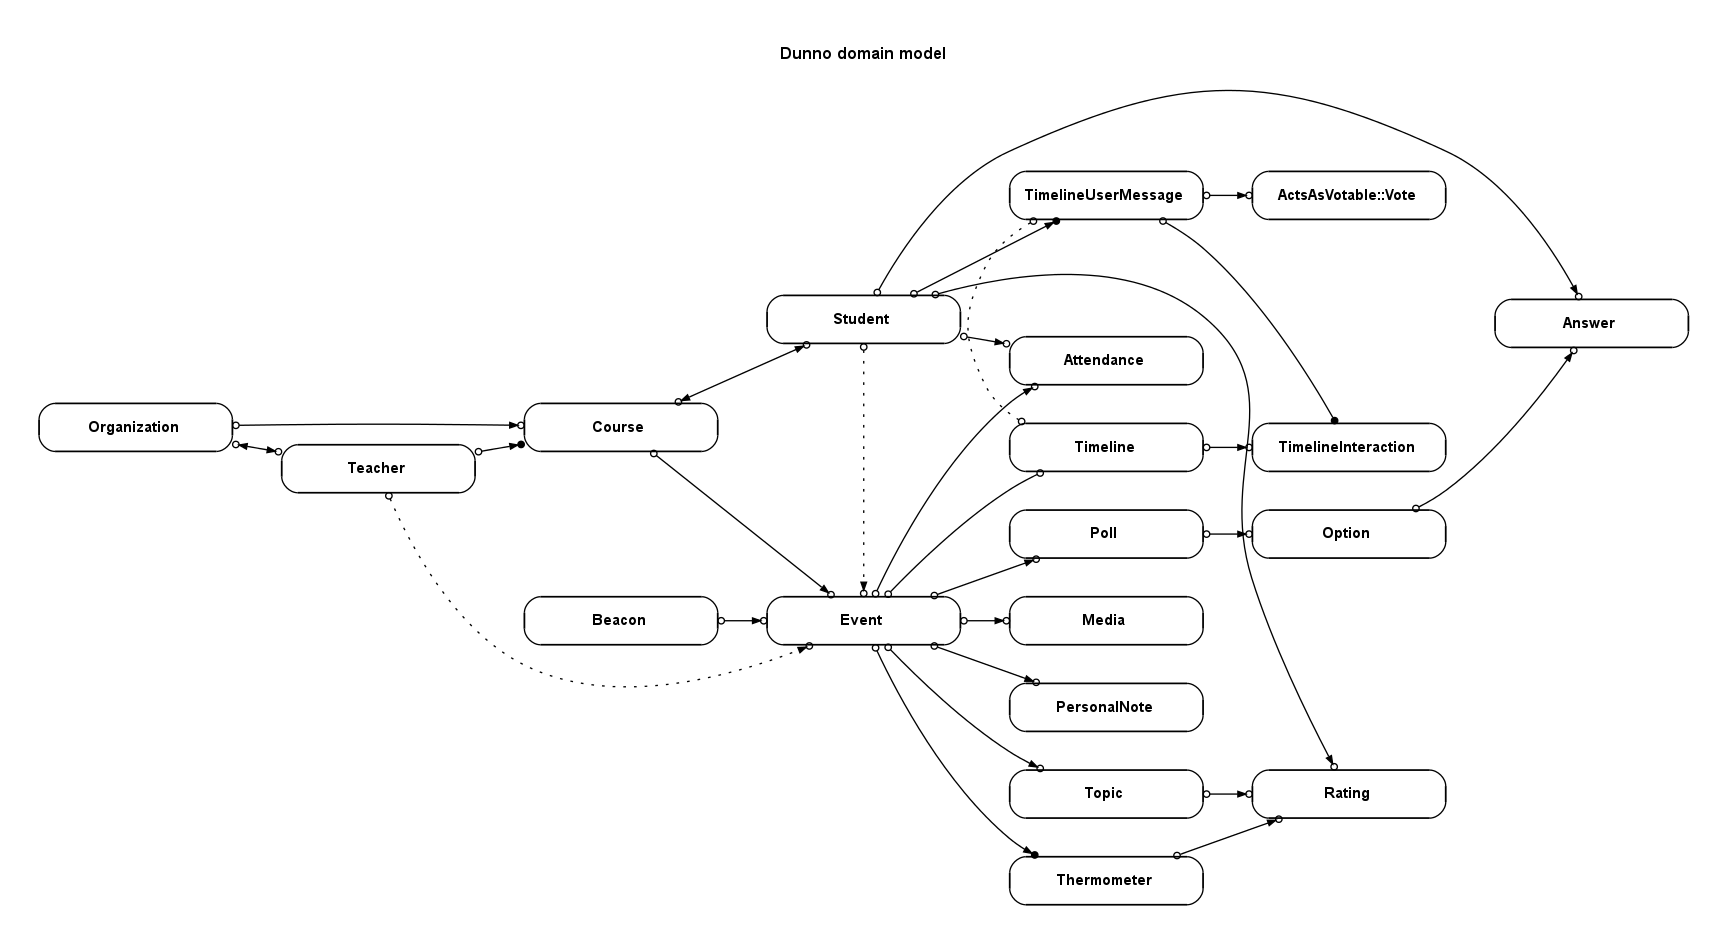
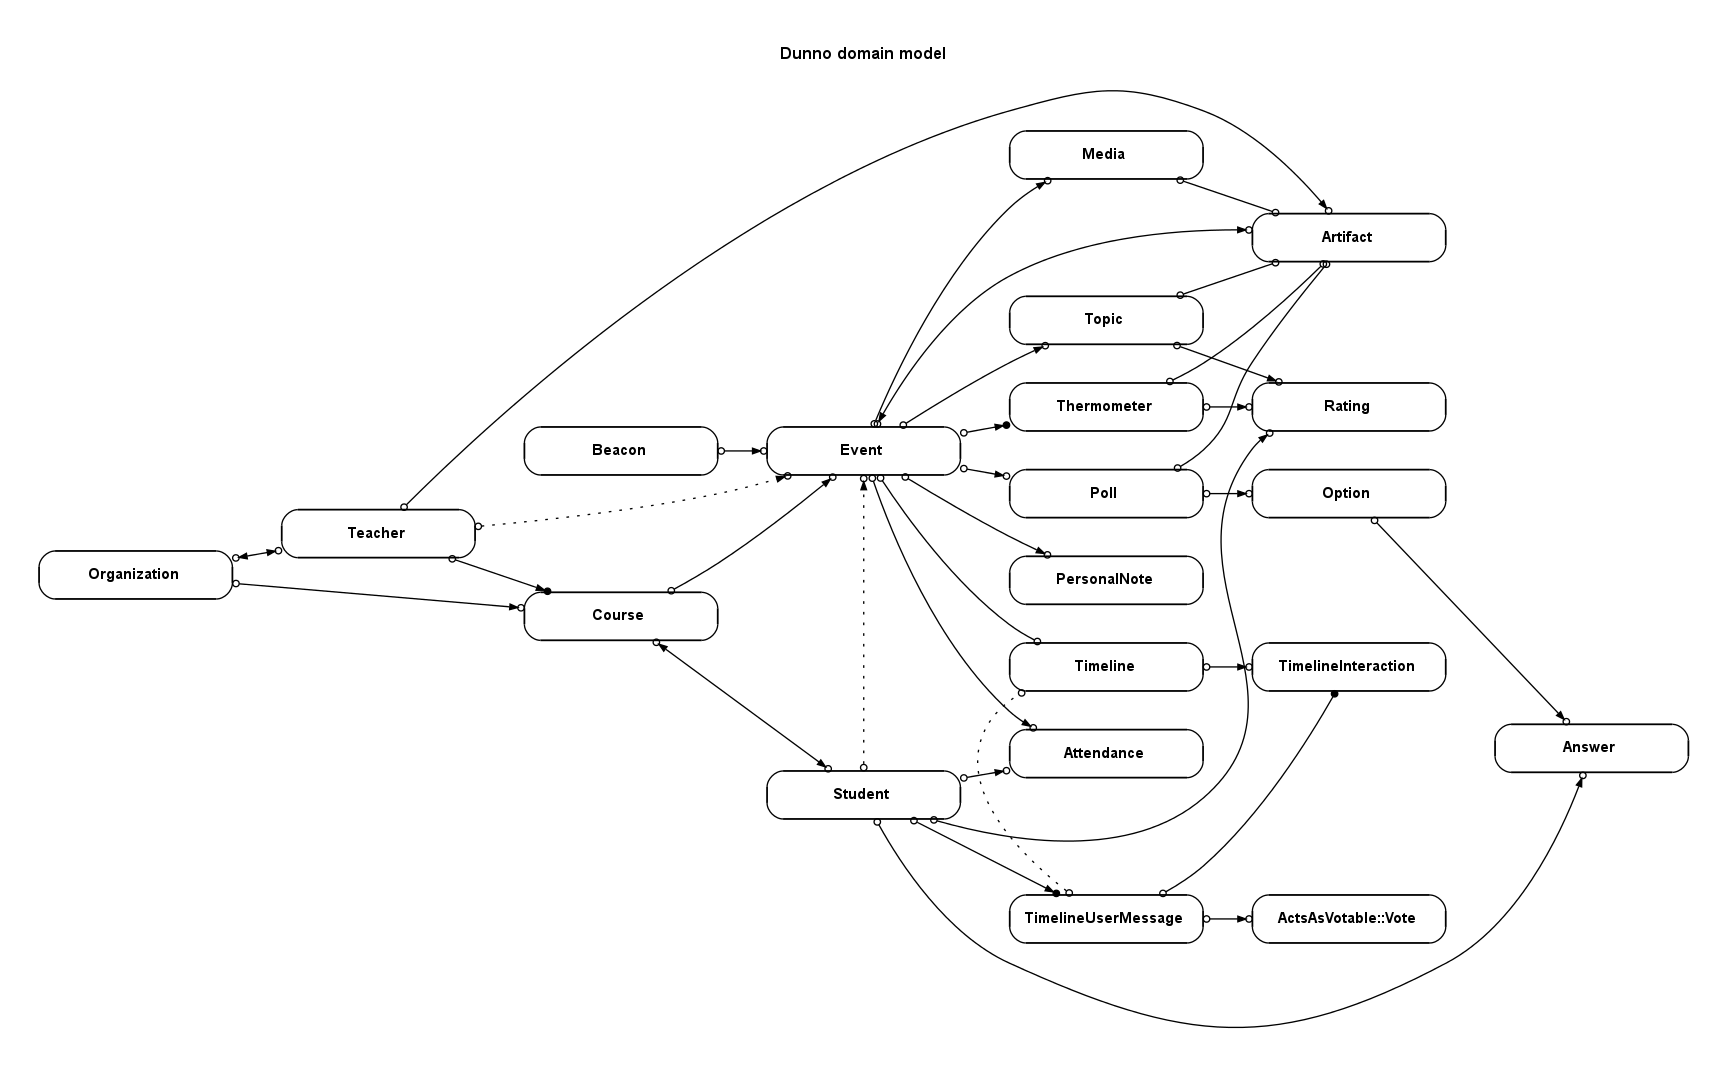
Creating artifact

diff --git a/db/schema.rb b/db/schema.rb
@@ -11,7 +11,7 @@
 #
 # It's strongly recommended that you check this file into your version control system.
 
-ActiveRecord::Schema.define(version: 20140429220313) do
+ActiveRecord::Schema.define(version: 20140507223500) do
 
   # These are extensions that must be enabled in order to support this database
   enable_extension "plpgsql"
@@ -26,6 +26,25 @@ ActiveRecord::Schema.define(version: 20140429220313) do
 
   add_index "answers", ["option_id"], name: "index_answers_on_option_id", using: :btree
   add_index "answers", ["student_id"], name: "index_answers_on_student_id", using: :btree
+
+  create_table "artifacts", force: true do |t|
+    t.integer  "teacher_id"
+    t.integer  "heir_id"
+    t.string   "heir_type"
+    t.datetime "created_at"
+    t.datetime "updated_at"
+  end
+
+  add_index "artifacts", ["heir_id", "heir_type"], name: "index_artifacts_on_heir_id_and_heir_type", unique: true, using: :btree
+  add_index "artifacts", ["teacher_id"], name: "index_artifacts_on_teacher_id", using: :btree
+
+  create_table "artifacts_events", id: false, force: true do |t|
+    t.integer "artifact_id"
+    t.integer "event_id"
+  end
+
+  add_index "artifacts_events", ["artifact_id"], name: "index_artifacts_events_on_artifact_id", using: :btree
+  add_index "artifacts_events", ["event_id"], name: "index_artifacts_events_on_event_id", using: :btree
 
   create_table "attendances", force: true do |t|
     t.integer  "student_id"

diff --git a/spec/models/artifact_spec.rb b/spec/models/artifact_spec.rb
@@ -1,0 +1,21 @@
+require 'spec_helper'
+
+describe Artifact do
+
+  shared_examples_for "artifact common examples" do
+    it { should respond_to(:teacher) }
+    it { should respond_to(:events) }
+  end
+
+  it_behaves_like "artifact common examples"
+
+  shared_examples_for "artifact" do
+    describe "associations" do
+      it { should have_one(:predecessor) }
+    end
+
+    describe "inheritance" do
+      it_behaves_like "artifact common examples"
+    end
+  end
+end

diff --git a/db/migrate/20140507210809_create_artifacts.rb b/db/migrate/20140507210809_create_artifacts.rb
@@ -1,0 +1,13 @@
+class CreateArtifacts < ActiveRecord::Migration
+  def change
+    create_table :artifacts do |t|
+      t.belongs_to :teacher, index: true
+      t.integer    :heir_id
+      t.string     :heir_type
+
+      t.timestamps
+    end
+
+    add_index :artifacts, [:heir_id, :heir_type], unique: true
+  end
+end

diff --git a/app/models/event.rb b/app/models/event.rb
@@ -10,6 +10,7 @@ class Event < ActiveRecord::Base
   has_many :personal_notes
   has_many :medias
   belongs_to :beacon
+  has_and_belongs_to_many :artifacts
 
   validates :title, :start_at, :duration, presence: true
   validates :closed_at, presence: true, if: :closed?

diff --git a/spec/models/event_spec.rb b/spec/models/event_spec.rb
@@ -12,6 +12,7 @@ describe Event do
     it { should have_many(:personal_notes) }
     it { should have_many(:medias) }
     it { should belong_to(:beacon) }
+    it { should have_and_belong_to_many(:artifacts) }
   end
 
   describe "defaults" do

diff --git a/db/migrate/20140507223500_create_artifacts_events.rb b/db/migrate/20140507223500_create_artifacts_events.rb
@@ -1,0 +1,8 @@
+class CreateArtifactsEvents < ActiveRecord::Migration
+  def change
+    create_table :artifacts_events, id: false do |t|
+      t.belongs_to :artifact, index: true
+      t.belongs_to :event, index: true
+    end
+  end
+end

diff --git a/spec/models/thermometer_spec.rb b/spec/models/thermometer_spec.rb
@@ -4,6 +4,8 @@ describe Thermometer do
 
   let(:thermometer) { build(:thermometer) }
 
+  it_behaves_like "artifact"
+
   describe "associations" do
     it { should belong_to(:event) }
     it { should have_many(:ratings) }

diff --git a/spec/models/topic_spec.rb b/spec/models/topic_spec.rb
@@ -1,6 +1,9 @@
 require 'spec_helper'
 
 describe Topic do
+
+  it_behaves_like "artifact"
+
   describe "associations" do
     it { should belong_to(:event) }
     it { should have_many(:ratings) }

diff --git a/spec/models/media_spec.rb b/spec/models/media_spec.rb
@@ -4,6 +4,8 @@ describe Media do
 
   let(:media) { build(:media) }
 
+  it_behaves_like "artifact"
+
   describe "associations" do
     it { should belong_to(:event) }
   end

diff --git a/spec/models/poll_spec.rb b/spec/models/poll_spec.rb
@@ -4,6 +4,8 @@ describe Poll do
 
   let(:poll) { build(:poll) }
 
+  it_behaves_like "artifact"
+
   describe "associations" do
     it { should belong_to(:event) }
   end

diff --git a/spec/factories/artifacts.rb b/spec/factories/artifacts.rb
@@ -1,0 +1,7 @@
+# Read about factories at https://github.com/thoughtbot/factory_girl
+
+FactoryGirl.define do
+  factory :artifact do
+    teacher nil
+  end
+end

diff --git a/app/models/thermometer.rb b/app/models/thermometer.rb
@@ -1,4 +1,7 @@
 class Thermometer < ActiveRecord::Base
+
+  acts_as_heir_of :artifact
+
   belongs_to :event
   has_many :ratings, as: :rateable
 
